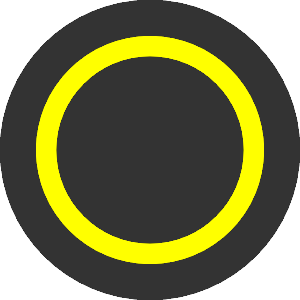
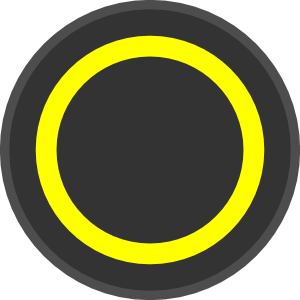
Minor Improvements for ArmPot
Lightened "Wheel" coloring, and better "snapping."

Changed region(s): [[0.0, 0.0, 1.0, 1.0]]

diff --git a/src/team2485/smartdashboard/extension/ArmPot.java b/src/team2485/smartdashboard/extension/ArmPot.java
@@ -24,7 +24,8 @@ public class ArmPot extends Widget {
     private int preVal[] = new int[5];
     public int armX;
     public int armY;
-    private double dec = 0;
+    private double deca = 0;
+    private double decb = 0;
     private int spin;
     private Color color;
     private String string;
@@ -70,24 +71,24 @@ public class ArmPot extends Widget {
 
         this.add(new airtanksPanel());
 
-//        new Thread(new Runnable() {
-//            @Override
-//            public void run() {
-//                while (true) {
-//                    try {
-//                        Thread.sleep(10);
-//                    } catch (InterruptedException ex) {
-//                    }
-//                    rawPotVal = rawPotVal + 10;
-//                    //System.out.println(value);
-//                    setValue(arm);
-//                    //rawPotVal=rawPotVal + (int)((Math.random()-.5)*10);
-//                    if (rawPotVal > 30001) {
-//                        rawPotVal = 20001;
-//                    }
-//                }
-//            }
-//        }).start();
+        new Thread(new Runnable() {
+            @Override
+            public void run() {
+                while (true) {
+                    try {
+                        Thread.sleep(30);
+                    } catch (InterruptedException ex) {
+                    }
+                    rawPotVal = rawPotVal + 10;
+                    //System.out.println(value);
+                    setValue(arm);
+                    //rawPotVal=rawPotVal + (int)((Math.random()-.5)*10);
+                    if (rawPotVal > 30001) {
+                        rawPotVal = 20001;
+                    }
+                }
+            }
+        }).start();
     }
 
     @Override
@@ -96,7 +97,7 @@ public class ArmPot extends Widget {
 
     @Override
     public void setValue(Object o) {
-        rawPotVal = ((Number) o).intValue();
+        //rawPotVal = ((Number) o).intValue();
         if (value == 0) {
             value = ((Number) o).intValue();
             value = (int) value / 10;
@@ -115,22 +116,21 @@ public class ArmPot extends Widget {
             }
         }
 
-        dec = (value - 2427) / 4;
-
-        if (((rawPotVal / 10) > 2826) && ((rawPotVal / 10) < 2844)) {
+        deca = (value - 2427) / 4;
+        if (((value) > 2826) && ((value) < 2844)) {
             value = 2835;
-            color = Color.green;
-        } else if (((rawPotVal / 10) > 2985) && ((rawPotVal / 10) < 3015)) {
-            value = 3000;
-            color = Color.green;
-        } else if ((value > 2800) && (value < 2870)) {
             color = Color.cyan;
+        } else if ((value > 2985) && (value < 3015)) {
+            value = 3000;
+            color = Color.cyan;
+        } else if ((value > 2800) && (value < 2870)) {
+            color = Color.green;
         } else if ((value > 2975) && (value < 3025)) {
             color = Color.orange;
         } else {
             color = Color.yellow;
         }
-
+        decb = (value - 2427) / 4;
         repaint();
     }
 
@@ -141,49 +141,51 @@ public class ArmPot extends Widget {
 
         @Override
         protected void paintComponent(final Graphics gg) {
-            if (getHeight() > getWidth())
-            X = getWidth();
-        if (getHeight() < getWidth())
-            X = getHeight();
-            
+            if (getHeight() > getWidth()) {
+                X = getWidth();
+            }
+            if (getHeight() < getWidth()) {
+                X = getHeight();
+            }
+
             //Y = X;
             armX = X / 2;
             armY = X / 5;
-            string = (int) Math.abs(dec) + "";// + "°";
+            string = (int) Math.abs(decb) + "";// + "°";
             final Graphics2D g = (Graphics2D) gg;
             g.setRenderingHint(RenderingHints.KEY_ANTIALIASING, RenderingHints.VALUE_ANTIALIAS_ON);
             g.translate(X / 2, (X / 2));
             if (spin == 0) {
-                g.rotate((dec - 90) * Math.PI / 180);
-                g.drawImage(arm, -(armY / 8 ), -(armY / 7), armX, armY, this);
-                g.rotate(-(dec - 90) * Math.PI / 180);
-                g.drawImage(circle, -(int)(armY / 3.5), -(int)(armY / 3.5), (int)(armY / 1.75), (int)(armY / 1.75), this); 
+                g.rotate((deca - 90) * Math.PI / 180);
+                g.drawImage(arm, -(armY / 8), -(armY / 7), armX, armY, this);
+                g.rotate(-(deca - 90) * Math.PI / 180);
+                g.drawImage(circle, -(int) (armY / 3.6), -(int) (armY / 3.6), (int) (armY / 1.8), (int) (armY / 1.8), this);
             }
             if (spin == 1) {
-                g.rotate((dec - 90) * Math.PI / 180);
+                g.rotate((deca - 90) * Math.PI / 180);
                 g.drawImage(armS, -(armY / 8), -(armY / 7), armX, armY, this);
-                g.rotate(-(dec - 90) * Math.PI / 180);
-                g.drawImage(circleS, -(int)(armY / 3.5), -(int)(armY / 3.5), (int)(armY / 1.75), (int)(armY / 1.75), this);
+                g.rotate(-(deca - 90) * Math.PI / 180);
+                g.drawImage(circleS, -(int) (armY / 3.6), -(int) (armY / 3.6), (int) (armY / 1.8), (int) (armY / 1.8), this);
             }
             hyp = ((g.getFontMetrics().stringWidth(string) / 2) + 30);
-            LX = (int) (Math.cos((dec - 90) * Math.PI / 180) * -armY/1.4) + 4;
-            LY = (int) (Math.sin((dec - 90) * Math.PI / 180) * -armY/1.6) - 14;
-            g.setFont(new java.awt.Font("Ubuntu", 0, (int)(armY/4.667)));
+            LX = (int) (Math.cos((deca - 90) * Math.PI / 180) * -armY / 1.4) + 4;
+            LY = (int) (Math.sin((deca - 90) * Math.PI / 180) * -armY / 1.6) - 14;
+            g.setFont(new java.awt.Font("Ubuntu", 0, (int) (armY / 4.667)));
             g.setColor(Color.GREEN);
             g.drawString("°", (LX + g.getFontMetrics().stringWidth(string)), LY + 5);
-            g.setFont(new java.awt.Font("Ubuntu", Font.BOLD, (int)(armY/2.333)));
+            g.setFont(new java.awt.Font("Ubuntu", Font.BOLD, (int) (armY / 2.333)));
             g.setColor(color);
             //g.fillOval(LX, LY, 5, 5);
             LX = LX - (g.getFontMetrics().stringWidth(string) / 2);
             LY = LY + (g.getFontMetrics().getHeight() / 2);
             //g.drawOval(LX, LY, 5, 5);
-            if (dec <= -1) {
+            if (deca <= -1) {
                 g.drawString("-", (LX - g.getFontMetrics().charWidth('-')), LY);
             }
             g.drawString(string, LX, (LY));
-            g.setFont(new java.awt.Font("Consolas", 0, (armY/10)));
+            g.setFont(new java.awt.Font("Consolas", 0, (armY / 10)));
             g.setColor(Color.GREEN);
-            g.drawString("" + rawPotVal, LX + (g.getFontMetrics().charWidth(2)), LY + (armY/10));
+            g.drawString("" + rawPotVal, LX + (g.getFontMetrics().charWidth(2)), LY + (armY / 10));
             g.translate(-X / 2, (-X / 2));
 
         }

diff --git a/src/team2485/smartdashboard/extension/G13Sender.java b/src/team2485/smartdashboard/extension/G13Sender.java
@@ -1,0 +1,114 @@
+package team2485.smartdashboard.extension;
+
+import edu.wpi.first.smartdashboard.gui.StaticWidget;
+import edu.wpi.first.smartdashboard.properties.Property;
+import edu.wpi.first.wpilibj.networktables.NetworkTable;
+import java.awt.BasicStroke;
+import java.awt.Color;
+import java.awt.Dimension;
+import java.awt.Graphics;
+import java.awt.Graphics2D;
+import java.awt.RenderingHints;
+import java.awt.image.BufferedImage;
+import java.io.IOException;
+import javax.imageio.ImageIO;
+import net.java.games.input.*;
+
+/**
+ * Guitar Hero X-plorer strummer axis sender
+ * @author Bryce Matsumori
+ */
+public class StrummerSender extends StaticWidget implements Runnable {
+    public static final String NAME = "X-plorer Strummer Sender";
+
+    private ControllerEnvironment env;
+    private Controller xplorer;
+    private Component component;
+    private NetworkTable table;
+    private BufferedImage image;
+
+    public StrummerSender() {
+        final Dimension size = new Dimension(84, 38);
+        setSize(size);
+        setPreferredSize(size);
+        setMinimumSize(size);
+        setMaximumSize(size);
+
+        try {
+            image = ImageIO.read(getClass().getResource("/team2485/smartdashboard/extension/res/guitar.png"));
+        } catch (IOException e) { }
+    }
+
+    @Override
+    protected void paintComponent(Graphics gg) {
+        Graphics2D g = (Graphics2D)gg;
+        g.setRenderingHint(RenderingHints.KEY_ANTIALIASING, RenderingHints.VALUE_ANTIALIAS_ON);
+
+        g.drawImage(image, 0, 0, null);
+
+        if (component == null) {
+            g.setColor(Color.red);
+            g.setStroke(new BasicStroke(3, BasicStroke.CAP_ROUND, BasicStroke.CAP_BUTT));
+            g.drawLine(10, 10, 74, 28);
+            g.drawLine(10, 28, 74, 10);
+        }
+    }
+
+    @Override
+    public void init() {
+        table = NetworkTable.getTable("SmartDashboard");
+
+        env = ControllerEnvironment.getDefaultEnvironment();
+        for (Controller c : env.getControllers()) {
+            if (c.getName().contains("X-plorer")) {
+                System.out.println("Found X-plorer");
+                xplorer = c;
+                component = xplorer.getComponent(Component.Identifier.Axis.POV);
+
+                Thread t = new Thread(this, "Strummer Sender");
+                t.setDaemon(true);
+                t.start();
+            }
+        }
+
+        if (xplorer == null) {
+            final Runnable self = this;
+            env.addControllerListener(new ControllerListener() {
+                @Override
+                public void controllerAdded(ControllerEvent ce) {
+                    if (ce.getController().getName().contains("X-plorer")) {
+                        System.out.println("Found X-plorer");
+                        xplorer = ce.getController();
+                        component = xplorer.getComponent(Component.Identifier.Axis.POV);
+
+                        final Thread t = new Thread(self, "Strummer Sender");
+                        t.setDaemon(true);
+                        t.start();
+                    }
+                }
+
+                @Override
+                public void controllerRemoved(ControllerEvent ce) {
+                }
+            });
+        }
+    }
+
+    @Override
+    public void propertyChanged(Property property) {
+    }
+
+    @Override
+    public void run() {
+        try {
+            while (true) {
+                if (xplorer != null) {
+                    xplorer.poll();
+                    table.putNumber("xplorer-strummer", component.getPollData());
+                }
+
+                Thread.sleep(20);
+            }
+        } catch (InterruptedException e) { }
+    }
+}
